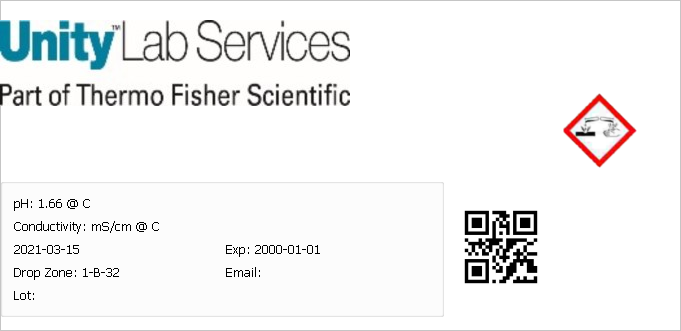
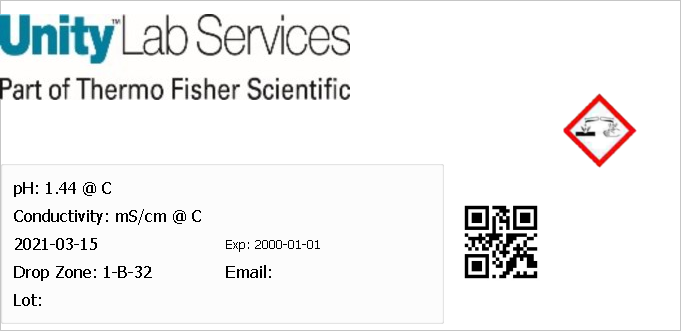
:D

diff --git a/Label.py b/Label.py
@@ -17,8 +17,9 @@ import qrcode
 from PIL import Image
 from PySide2.QtWidgets import QWidget
 class Label(QDialog, Ui_LabelWindow):
-    def __init__(self, listInfo,   parent= None):
+    def __init__(self, listInfo, results,   parent= None):
         self.listInfo = listInfo
+        self.results = results
         super(Label, self).__init__(parent)
         self.setupUi(self)
         self.image = QImage()
@@ -53,6 +54,7 @@ class Label(QDialog, Ui_LabelWindow):
         self.batch_title.setText(listInfo[0])
         self.emailLabel.setText("Email: " + listInfo[1])
         self.lotLabel.setText("Lot: "+ listInfo[2])
+        self.lot2.setText("Lot: "+ listInfo[2])
         self.deliveryLabel.setText("Drop Zone: " + listInfo [3])
         self.expLabel.setText("Exp: "+listInfo[4])
         self.dialog = None
@@ -65,6 +67,13 @@ class Label(QDialog, Ui_LabelWindow):
         self.qrLabel.setPixmap(self.pil2pixmap(img))
         self.qrLabel.setScaledContents(True)
         self.checkShit(listInfo[0], listInfo[5])
+        self.doTheChemicals(self.results)
+    def doTheChemicals(self, results):
+        changeDict ={"NaOH": "Sodium Hydroxide", "NaCl":"Sodium Chloride", "PS20": "Polysorbate 20", "PS80": "Polysorbate 80", "CHAPS":"3-((3-cholamidopropyl) dimethylammonio)-1-propanesulfonate(CHAPS)", "IGF-1": "Insulin Growth Factor - 1", "DTPA":"Diethylenetriamine Pentaacetate(DTPA)", "SDS": "Sodium Dodecyl Sulfate", "HFIP":"Hexafluoroisopropanol(HFIP)", "HPMC": "Hydroxymethylcellulose", "HPBCD": "2-Hydroxypropyl-beta-cyclodextrin", " PEG": " Polyethylene Glycol(PEG)","EDTA": "Ethylenediaminetetraacetic acid(EDTA)", "EGTA": "ethylene glycol-bis('-aminoethyl ether)-N,N,N',N'-tetraacetic acid(EGTA)", "Tris":"tris(hydroxymethyl)aminomethane(Tris)", "MES": "2-(N-morpholino)ethanesulfonic acid(MES)", "MOPS":"3-morpholinopropane-1-sulfonic acid(MOPS)", "HEPES": "2-[4-(2-hydroxyethyl)piperazin-1-yl]ethanesulfonic acid(HEPES)", "HCl": "Hydrochloric Acid", "H2O": "Dihydrogen Monoxide(H2O)"}
+        reslist = results.split(",")
+        reslist = [changeDict.get(item, item) for item in reslist]
+        self.results = ", ".join(reslist)
+        self.resuls.setText(self.results)
     def createBarcode(self, batch, email, lot):
         codeStr = batch + "*" + email + "*" + lot
         img = qrcode.make(codeStr)
@@ -79,29 +88,38 @@ class Label(QDialog, Ui_LabelWindow):
         return QPixmap.fromImage(qimg)
     def print_preview_dialog(self):
         sshot = QWidget.grab(self.frame)
+        sshot2 = QWidget.grab(self.frame2)
         sshot.save('sshot.png')
+        sshot2.save('sshot2.png')
+      
         #Instantiate print image object
         sshot = sshot.toImage()
+        sshot2 = sshot2.toImage()
+        screenshots = [sshot, sshot2]
         printer=QPrinter(QPrinter.HighResolution)
+        printer.setPageSize(4,2,QPrinter.Inch)
         #Print window pops up
+        
         printDialog=QPrintDialog(printer,self)
-        if printDialog.exec_():
+        for shot in screenshots: 
+            if printDialog.exec_():
 
-            painter=QPainter(printer)
-            painter.begin(printer)
+                painter=QPainter(printer)
+                painter.begin(printer)
             #Instantiated view window
-            rect=painter.viewport()
+                rect=painter.viewport()
             #Get the size of the picture
-            size=sshot.size()
+                size=shot.size()
 
-            size.scale(rect.size(),Qt.KeepAspectRatio)
+                size.scale(rect.size(),Qt.KeepAspectRatio)
             #Set the properties of the view window
-            painter.setViewport(rect.x(),rect.y(),size.width(),size.height())
+                painter.setViewport(rect.x(),rect.y(),size.width(),size.height())
 
             #Set the size of the window to the size of the picture, and draw the picture in the window
-            painter.setWindow(sshot.rect())
-            painter.drawImage(0,0,sshot)
-            painter.end()
+                painter.setWindow(shot.rect())
+                painter.drawImage(0,0,shot)
+                painter.end()
+                painter
               
        
     def zebraPrint(self):

diff --git a/LaelDialog.py b/LaelDialog.py
@@ -131,30 +131,37 @@ class Ui_LabelWindow(object):
         self.gridLayout_2.setObjectName(u"gridLayout_2")
         self.conLabel = QLabel(self.gridGroupBox_2)
         self.conLabel.setObjectName(u"conLabel")
+        font1 = QFont()
+        font1.setPointSize(10)
+        self.conLabel.setFont(font1)
         self.conLabel.setScaledContents(True)
 
         self.gridLayout_2.addWidget(self.conLabel, 3, 1, 1, 1)
 
         self.pHLabel = QLabel(self.gridGroupBox_2)
         self.pHLabel.setObjectName(u"pHLabel")
+        self.pHLabel.setFont(font1)
         self.pHLabel.setScaledContents(True)
 
         self.gridLayout_2.addWidget(self.pHLabel, 2, 1, 1, 1)
 
         self.deliveryLabel = QLabel(self.gridGroupBox_2)
         self.deliveryLabel.setObjectName(u"deliveryLabel")
+        self.deliveryLabel.setFont(font1)
         self.deliveryLabel.setScaledContents(True)
 
         self.gridLayout_2.addWidget(self.deliveryLabel, 5, 1, 1, 1)
 
         self.lotLabel = QLabel(self.gridGroupBox_2)
         self.lotLabel.setObjectName(u"lotLabel")
+        self.lotLabel.setFont(font1)
         self.lotLabel.setScaledContents(True)
 
         self.gridLayout_2.addWidget(self.lotLabel, 6, 1, 1, 1)
 
         self.dateLabel = QLabel(self.gridGroupBox_2)
         self.dateLabel.setObjectName(u"dateLabel")
+        self.dateLabel.setFont(font1)
         self.dateLabel.setScaledContents(True)
 
         self.gridLayout_2.addWidget(self.dateLabel, 4, 1, 1, 1)
@@ -167,6 +174,7 @@ class Ui_LabelWindow(object):
 
         self.emailLabel = QLabel(self.gridGroupBox_2)
         self.emailLabel.setObjectName(u"emailLabel")
+        self.emailLabel.setFont(font1)
         self.emailLabel.setScaledContents(True)
 
         self.gridLayout_2.addWidget(self.emailLabel, 5, 2, 1, 1)

diff --git a/MainWindow.py b/MainWindow.py
@@ -67,7 +67,7 @@ class MainWindow(QMainWindow, Ui_MainWindow):
     def OpenLabels(self):
         try: 
             self.listInfo = [self.batchTitleLineEdit.text(),self.emailLineEdit.text(), self.lotNumberLineEdit.text(),  self.deliveryZoneComboBox.currentText(), self.expirationDateDateTimeEdit.date().toString("yyyy-MM-dd"), self.pHLineEdit.text(), self.pHTemperatureLineEdit.text(), self.conductivityLineEdit.text(), self.conductivityTemperatureLineEdit.text() ]    
-            self.label = Label(self.listInfo )
+            self.label = Label(self.listInfo, self.textEdit.toPlainText() )
             self.label.show()
             
         except Exception as e: 
